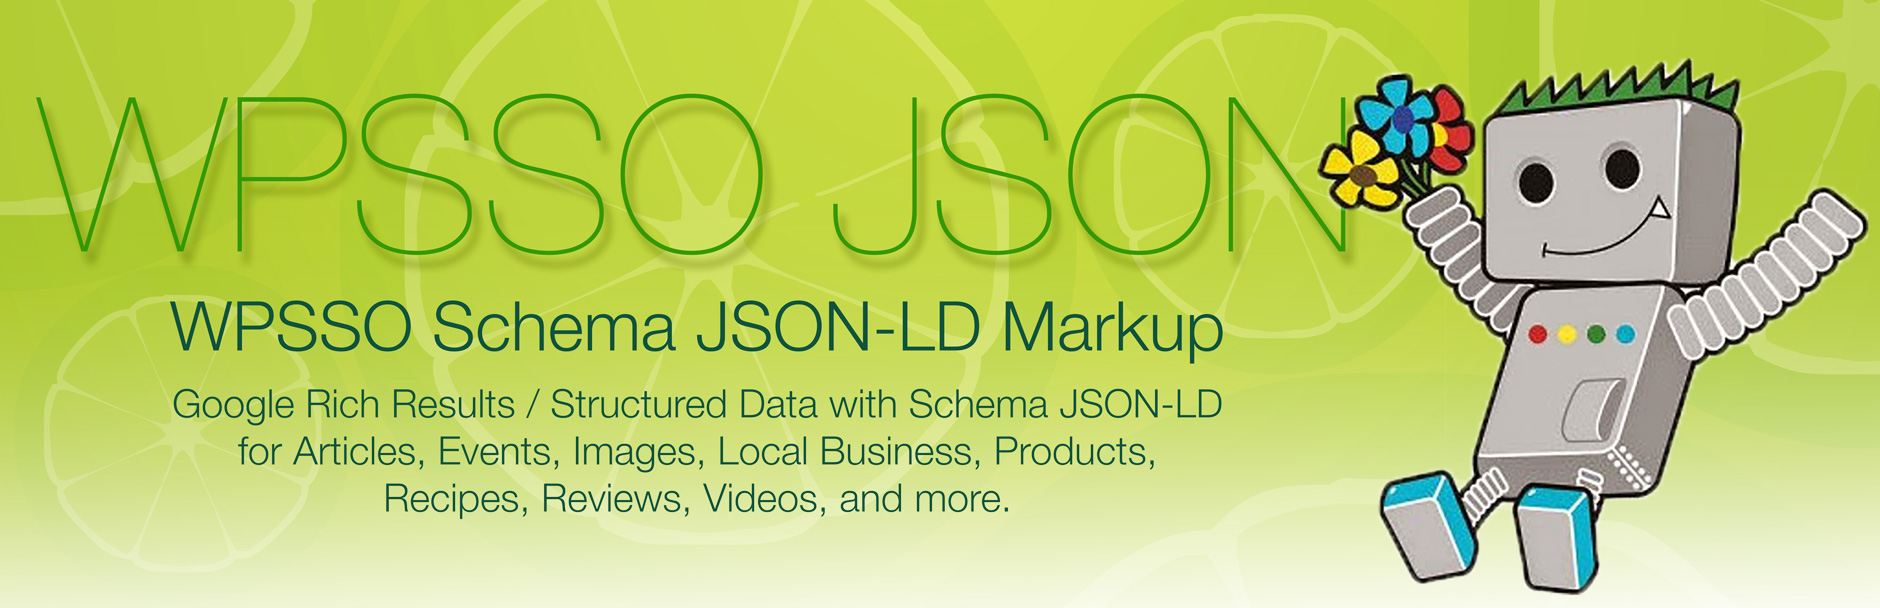
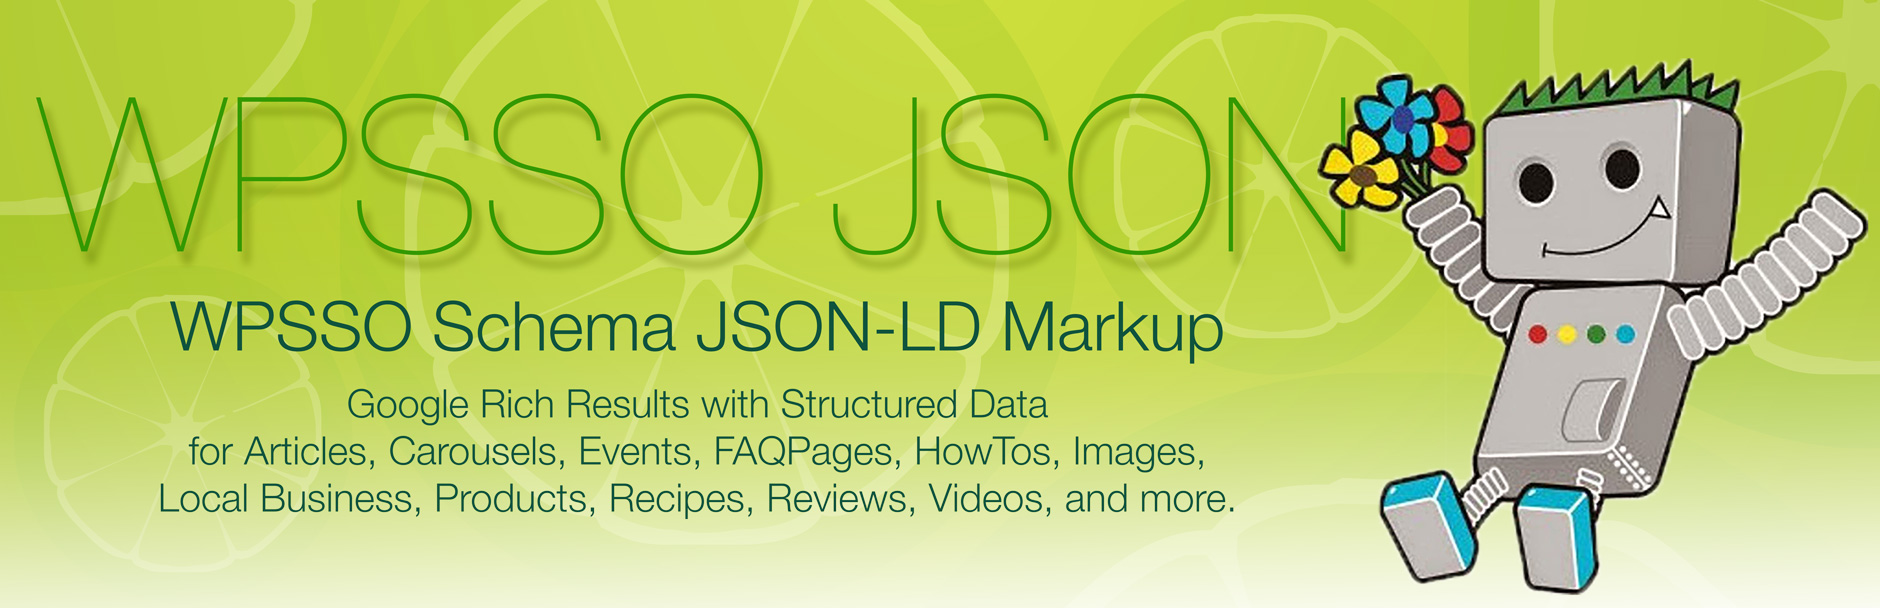
non-essential support files (documentation and assets)

Changed region(s): [[0.0926, 0.7188, 0.6479, 0.8438], [0.0926, 0.625, 0.6479, 0.6875]]

diff --git a/index.html b/index.html
@@ -25,11 +25,11 @@
         </ul>
       </header>
       <section>
-<h1>Schema JSON-LD Markup | WPSSO Add-on for Google Rich Results with Structured Data</h1>
+<h1>Schema JSON-LD Markup</h1><h3>WPSSO Add-on</h3>
 
 <table>
 <tr><th align="right" valign="top" nowrap>Plugin Name</th><td>WPSSO Schema JSON-LD Markup</td></tr>
-<tr><th align="right" valign="top" nowrap>Summary</th><td>Schema JSON-LD and Google Rich Results with Structured Data for Articles, Events, Images, Local Business, Products, Recipes, Reviews Videos, and more.</td></tr>
+<tr><th align="right" valign="top" nowrap>Summary</th><td>Google Rich Results with Structured Data for Articles, Carousels, Events, FAQPages, HowTos, Images, Local Business, Products, Recipes, Reviews, Videos</td></tr>
 <tr><th align="right" valign="top" nowrap>Stable Version</th><td>2.14.0</td></tr>
 <tr><th align="right" valign="top" nowrap>Requires At Least</th><td>WordPress 3.9</td></tr>
 <tr><th align="right" valign="top" nowrap>Tested Up To</th><td>WordPress 5.3</td></tr>
